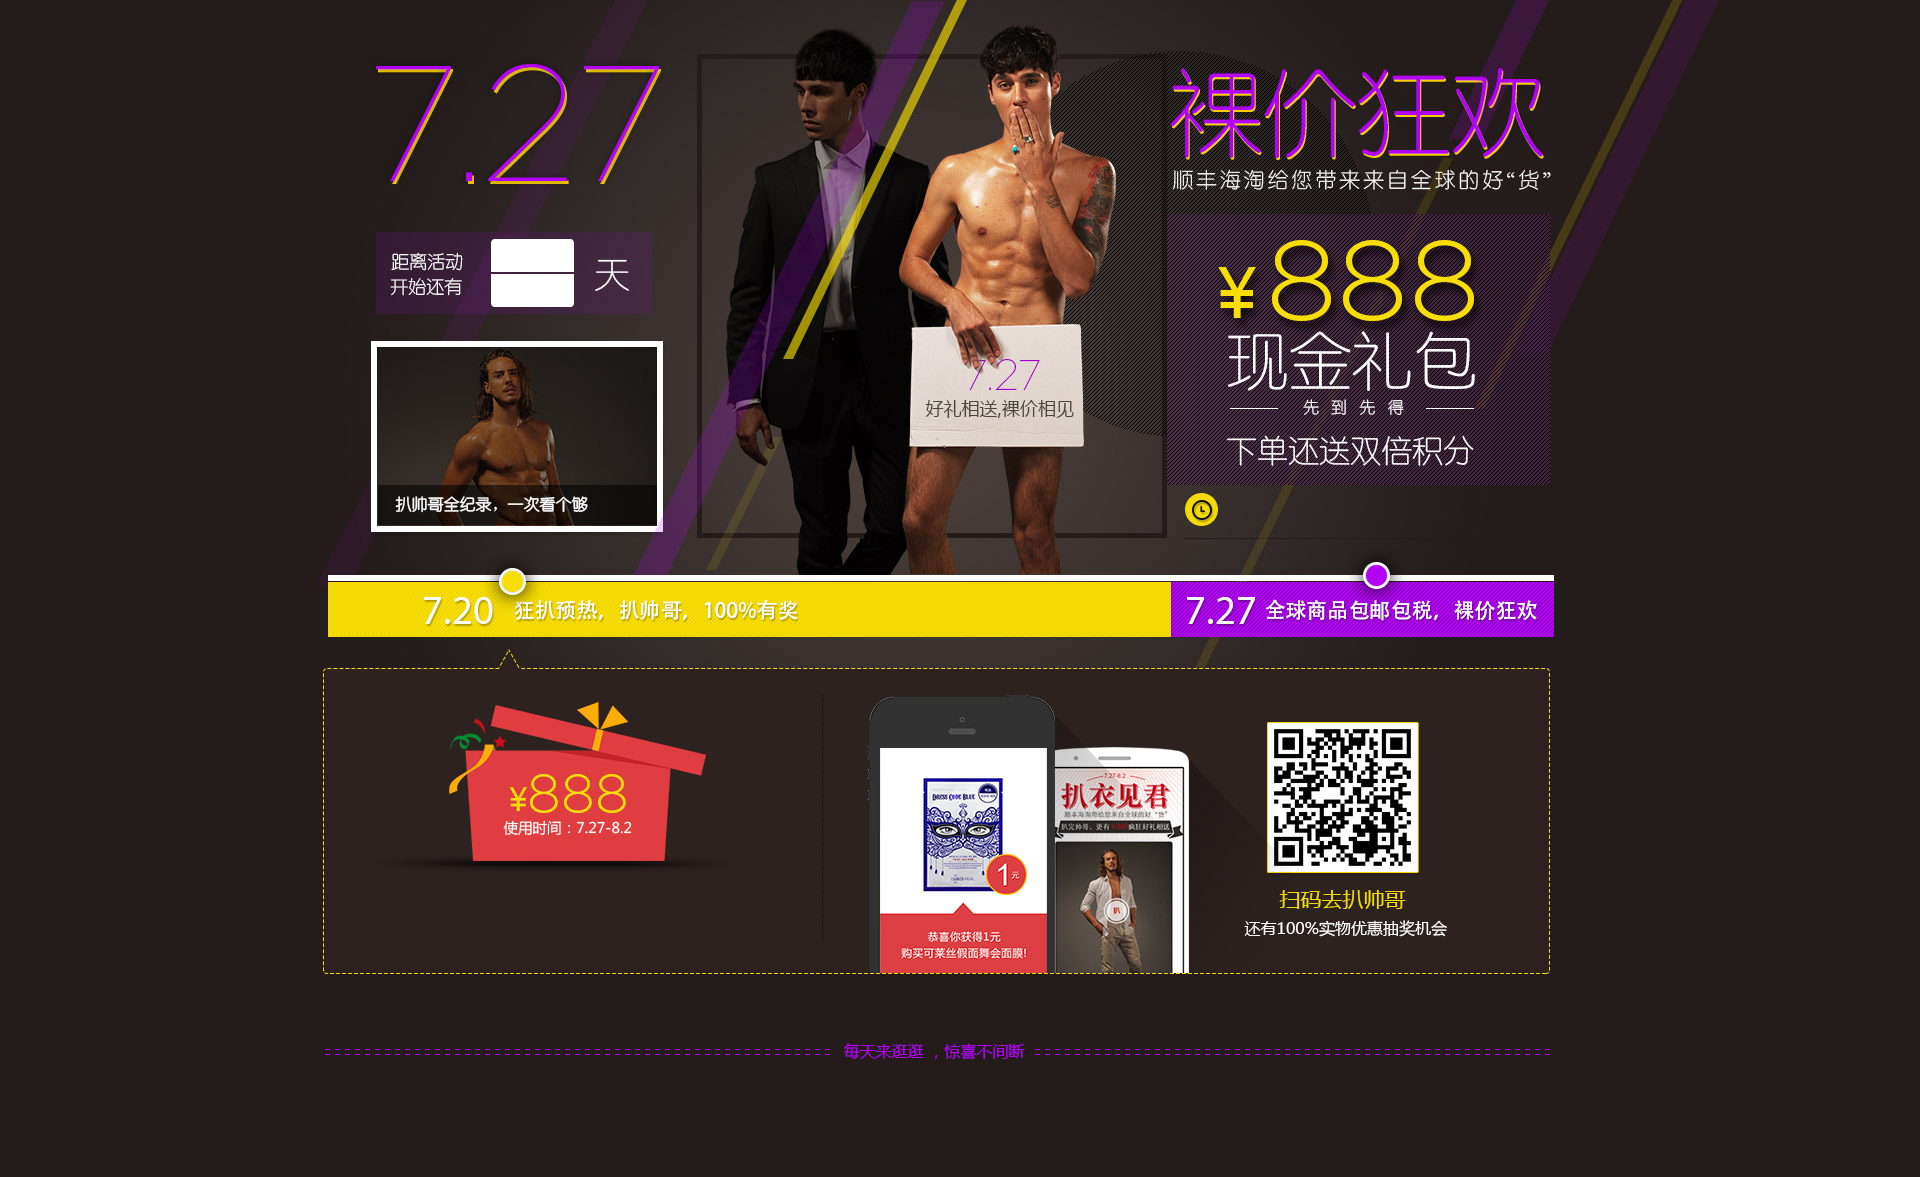
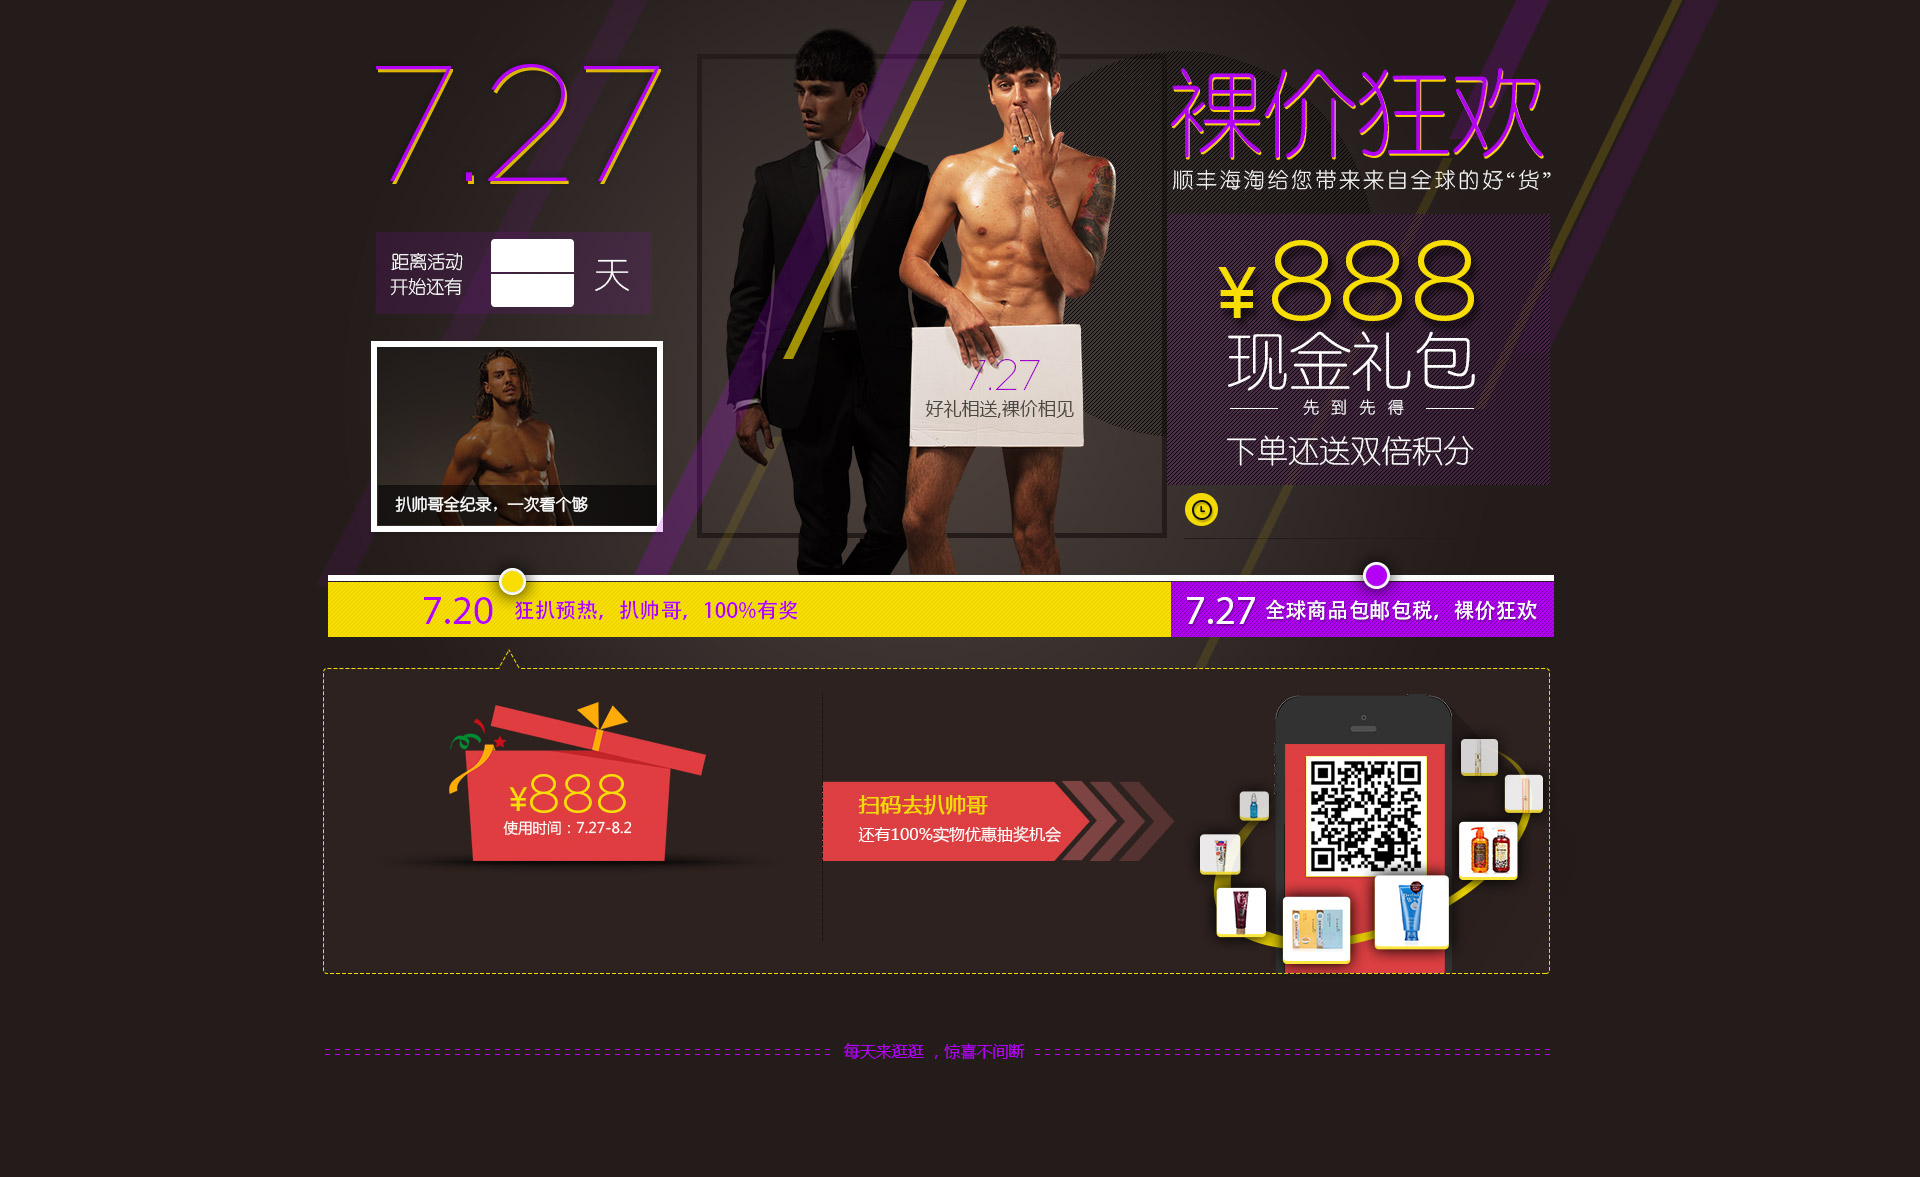
81

Changed region(s): [[0.4062, 0.6117, 0.8125, 0.8258], [0.2188, 0.4894, 0.4062, 0.5506]]

diff --git a/app/css/81.css b/app/css/81.css
@@ -1,1 +1,1 @@
-.m81{background:url(http://img0.sfht.com/img/43860b6576ad4cf023d97218ef86f357.jpg) no-repeat center top;height:1177px}.m81-day{font-size:71px;color:#b300f5;width:84px;text-align:center;padding-top:239px;padding-left:120px;height:71px}.m81-play{width:67px;height:68px;background:url(http://img0.sfht.com/img/2f5c475831ed7345879052b170088f91.jpg) no-repeat center;margin-left:120px;margin-top:90px;display:block;text-indent:-999em}.m81-play:hover{opacity:0.8}.m81-info{color:#fff;width:315px;margin-left:auto;margin-top:25px;height:36px;overflow:hidden}.m81-info span{color:#f3da00}.m81-info ul{position:relative}.m81-info li{line-height:36px;height:36px;overflow:hidden}.m81-btn{background:#b300f5;color:#fff;width:274px;height:64px;line-height:64px;text-align:center;font-size:24px;-webkit-border-radius:5px;border-radius:5px;display:block;margin-top:350px;margin-left:59px}.m81-btn:hover{color:#fff;opacity:0.8}.m81-video{position:fixed;z-index:999;width:640px;height:480px;left:50%;top:50%;margin-left:-320px;margin-top:-240px;display:none;background:rgba(0,0,0,0.8)}.m81-video-close{width:30px;height:30px;-webkit-border-radius:50%;border-radius:50%;text-align:center;line-height:30px;background:#fff;position:absolute;right:-15px;top:-15px;font-size:20px}
+.m81{background:url(http://img0.sfht.com/img/f327c61b4358ec7772b82b1714826bae.jpg) no-repeat center top;height:1177px}.m81-day{font-size:71px;color:#b300f5;width:84px;text-align:center;padding-top:239px;padding-left:120px;height:71px}.m81-play{width:67px;height:68px;background:url(http://img0.sfht.com/img/2f5c475831ed7345879052b170088f91.jpg) no-repeat center;margin-left:120px;margin-top:90px;display:block;text-indent:-999em}.m81-play:hover{opacity:0.8}.m81-info{color:#fff;width:315px;margin-left:auto;margin-top:25px;height:36px;overflow:hidden}.m81-info span{color:#f3da00}.m81-info ul{position:relative}.m81-info li{line-height:36px;height:36px;overflow:hidden}.m81-btn{background:#b300f5;color:#fff;width:274px;height:64px;line-height:64px;text-align:center;font-size:24px;-webkit-border-radius:5px;border-radius:5px;display:block;margin-top:350px;margin-left:59px}.m81-btn:hover{color:#fff;opacity:0.8}.m81-video{position:fixed;z-index:999;width:640px;height:480px;left:50%;top:50%;margin-left:-320px;margin-top:-240px;display:none;background:rgba(0,0,0,0.8)}.m81-video-close{width:30px;height:30px;-webkit-border-radius:50%;border-radius:50%;text-align:center;line-height:30px;background:#fff;position:absolute;right:-15px;top:-15px;font-size:20px}

diff --git a/app/scss/81.scss b/app/scss/81.scss
@@ -2,7 +2,7 @@
 @import 'utils/placeholders';
 
 .m81{
-	background: url(http://img0.sfht.com/img/43860b6576ad4cf023d97218ef86f357.jpg) no-repeat center top;
+	background: url(http://img0.sfht.com/img/f327c61b4358ec7772b82b1714826bae.jpg) no-repeat center top;
 	height: 1177px;
 }
 .m81-day{
